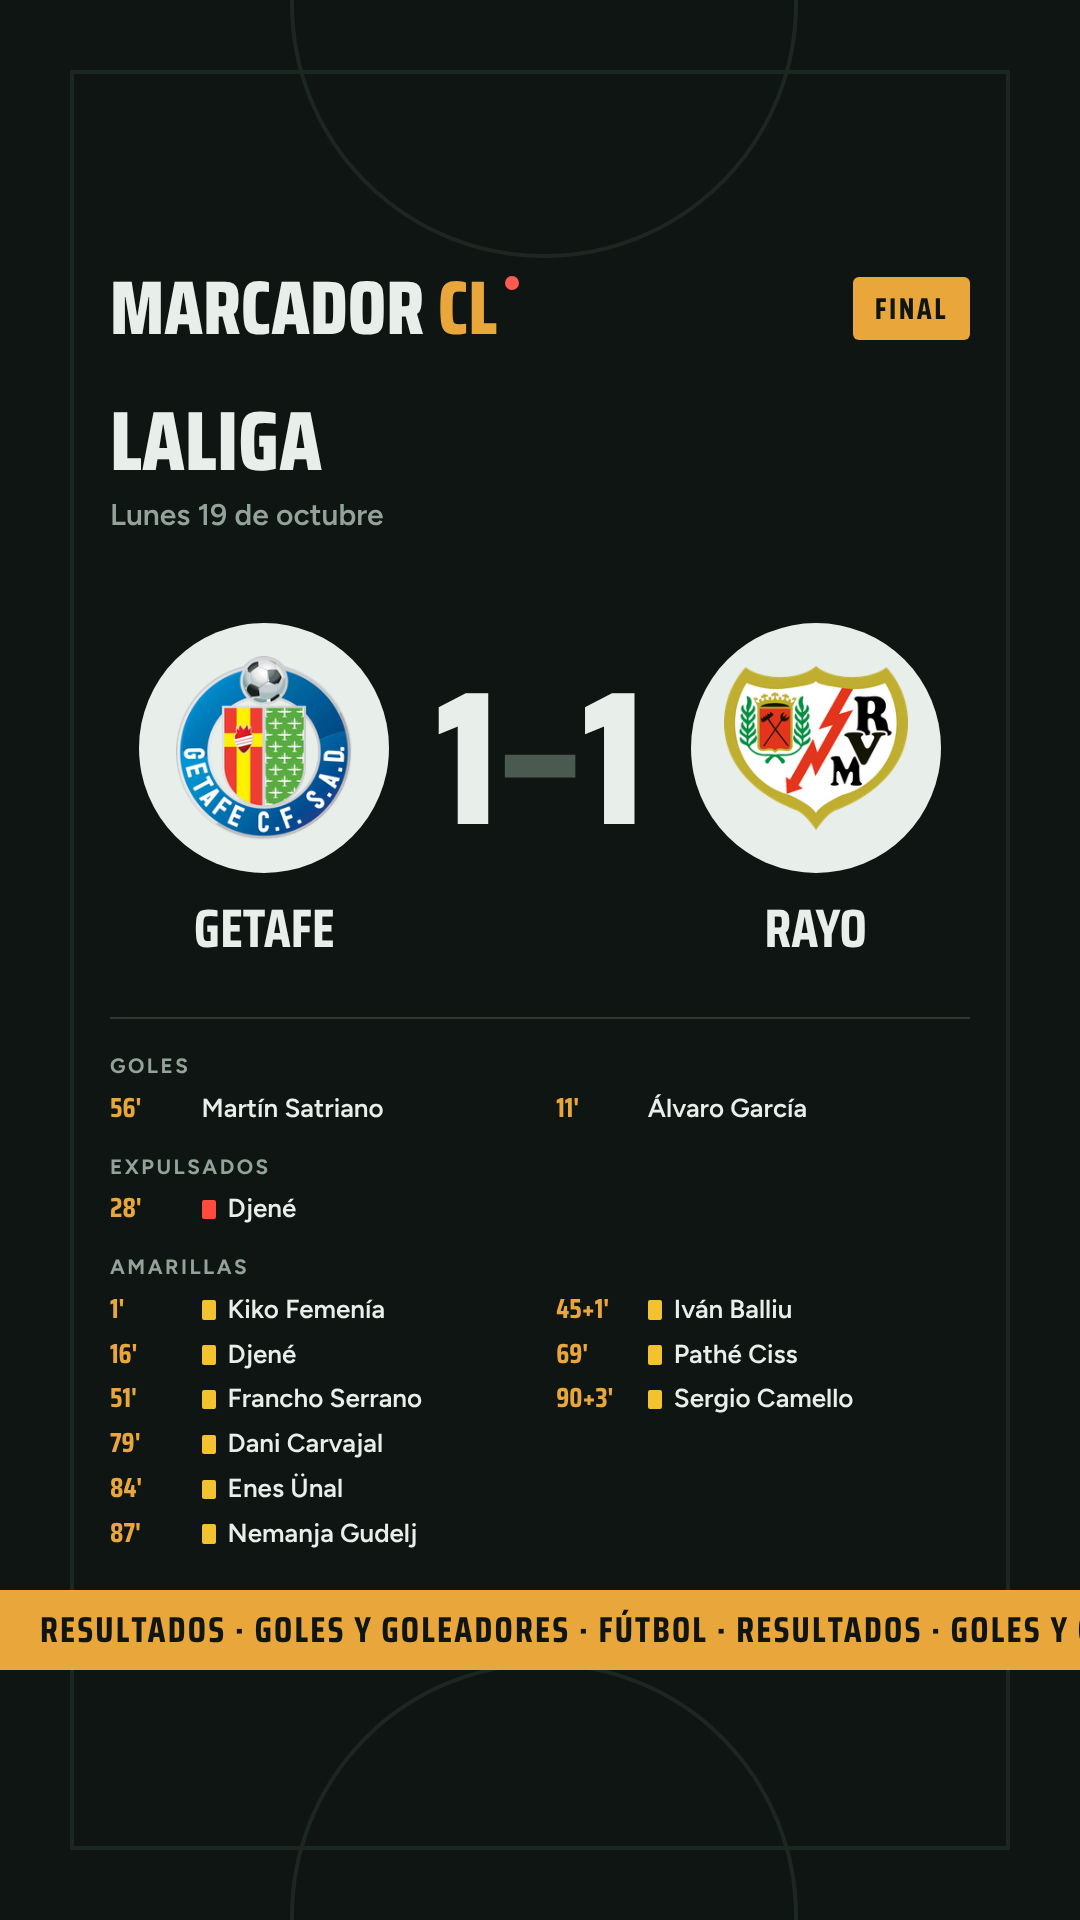
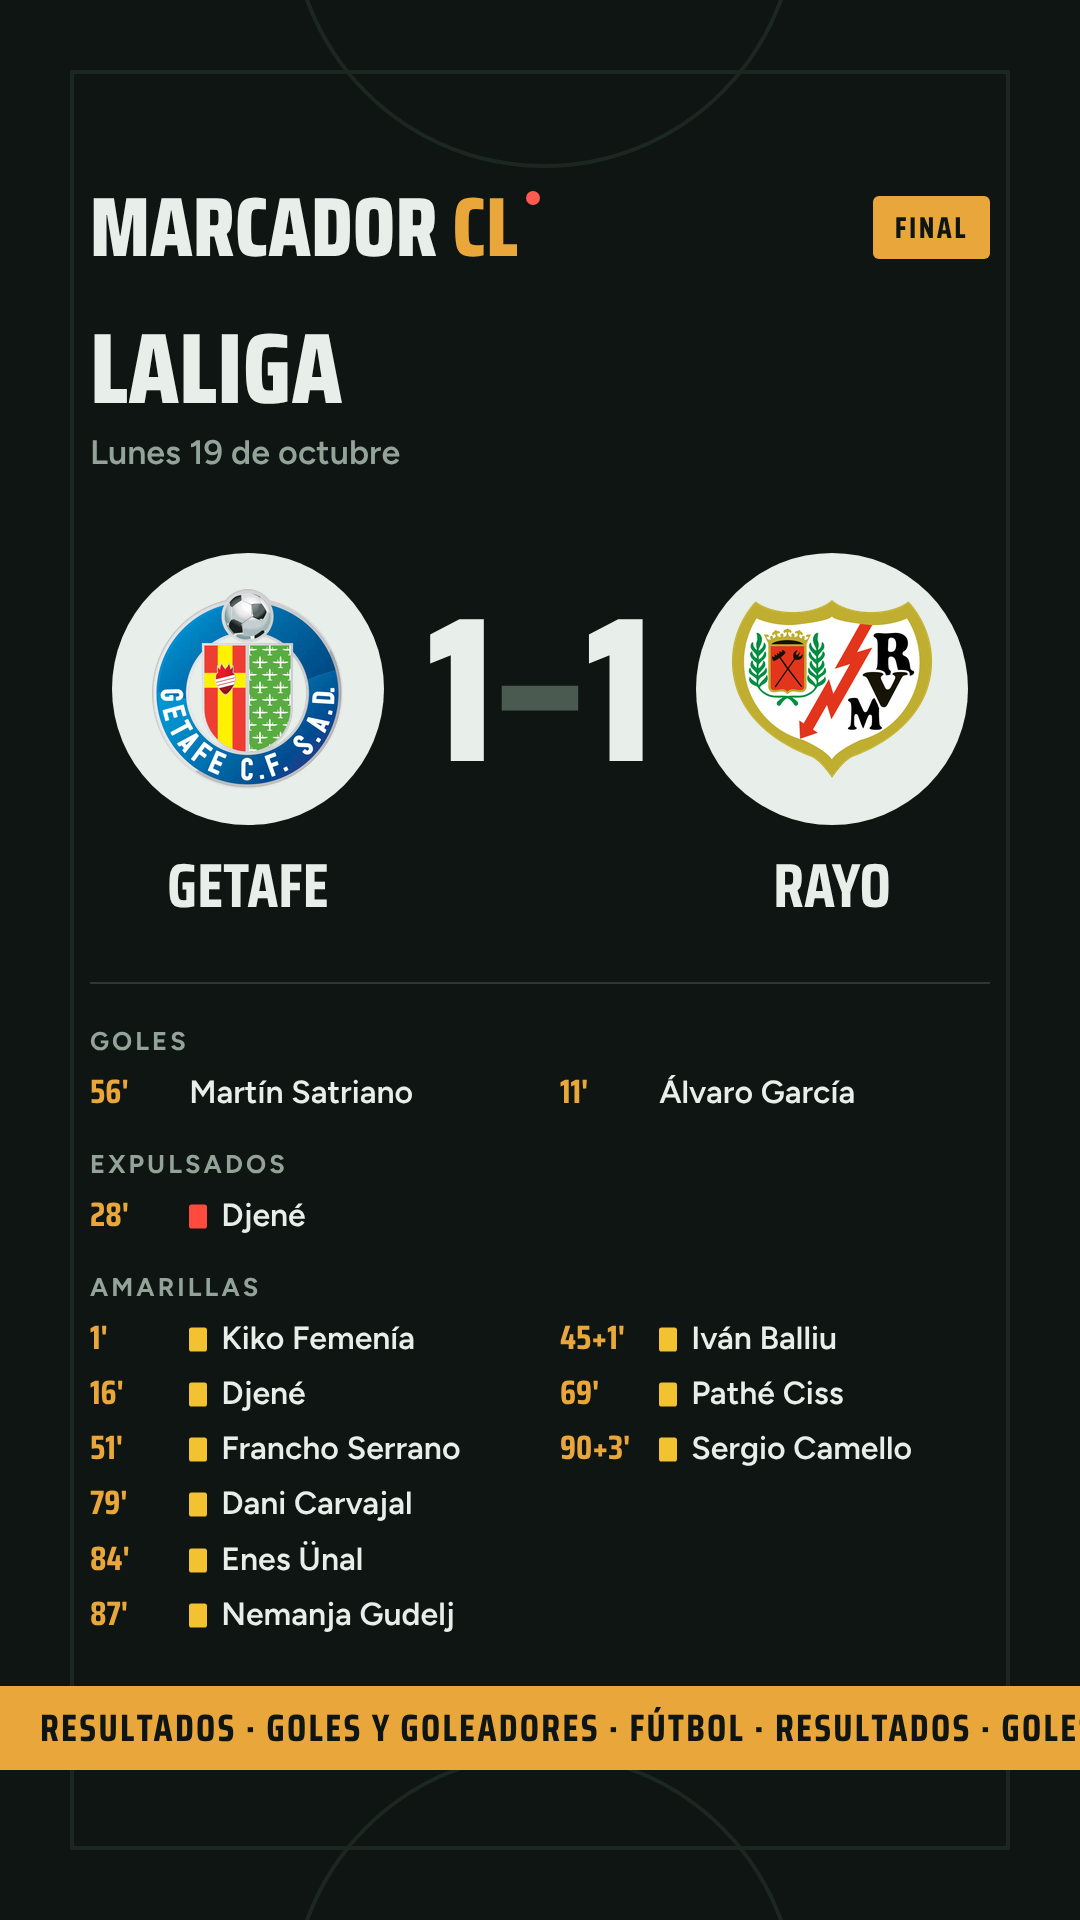
Historias: formato más alto, escudos y marcador más grandes
Claude-Session: https://claude.ai/code/session_017N4jqvzeFfavdK3br5k5f7

diff --git a/historias/render.py b/historias/render.py
@@ -109,11 +109,11 @@ def html_partido(p):
     def chip(nombre):
         uri = escudo(p["liga"], nombre)
         if uri:
-            inner = f'<img src="{uri}" style="width:184px;height:184px;object-fit:contain">'
+            inner = f'<img src="{uri}" style="width:200px;height:200px;object-fit:contain">'
         else:
             ini = "".join(w[0] for w in norm(nombre).split()[:2]).upper() or "?"
-            inner = f'<span style="font:800 110px Saira;color:#0f1512">{e(ini)}</span>'
-        return (f'<div style="width:250px;height:250px;border-radius:50%;background:#e8eee9;'
+            inner = f'<span style="font:800 130px Saira;color:#0f1512">{e(ini)}</span>'
+        return (f'<div style="width:272px;height:272px;border-radius:50%;background:#e8eee9;'
                 f'display:flex;align-items:center;justify-content:center">{inner}</div>')
 
     # Detalle: goles, anulados por VAR, rojas y amarillas. Todo en em para poder achicarlo
@@ -127,8 +127,8 @@ def html_partido(p):
     def linea(minuto, texto, icono="", tachado=False):
         t = f'<span style="text-decoration:line-through;text-decoration-thickness:.07em;color:#93a399">{texto}</span>' if tachado else f"<span>{texto}</span>"
         return (f'<div style="display:flex;gap:.45em;align-items:baseline">'
-                f'<span style="font-family:Saira;font-weight:700;font-size:1.06em;color:#e9a63b;min-width:2.9em">{e(minuto)}</span>'
-                f'{icono}{t}</div>')
+                f'<span style="font-family:Saira;font-weight:700;font-size:1.06em;color:#e9a63b;min-width:2.5em">{e(minuto)}</span>'
+                f'{icono}<span style="white-space:nowrap">{t}</span></div>')
 
     def seccion(titulo, items, fn):
         if not items:
@@ -162,9 +162,9 @@ def html_partido(p):
     goles = ""
     if cuerpo:
         goles = f'''
-  <div id="det" style="margin-top:60px;border-top:2px solid #2c3830;padding-top:.2em;font:600 32px Figtree">{cuerpo}</div>'''
+  <div id="det" style="margin-top:64px;border-top:2px solid #2c3830;padding-top:.2em;font:600 36px Figtree">{cuerpo}</div>'''
     fase = f' · {e(p["fase"])}' if p.get("fase") else ""
-    tam = 46 if max(len(p["local"]), len(p["visita"])) > 14 else 54
+    tam = 52 if max(len(p["local"]), len(p["visita"])) > 14 else 62
     return f'''<!doctype html><html><head><meta charset="utf-8"><style>
 @font-face{{font-family:Saira;src:url("{font("SairaCondensed-ExtraBold.ttf")}");font-weight:800}}
 @font-face{{font-family:Saira;src:url("{font("SairaCondensed-Bold.ttf")}");font-weight:700}}
@@ -173,22 +173,22 @@ html,body{{margin:0;background:#0f1512}}
 </style></head><body>
 <div style="width:1080px;height:1920px;position:relative;overflow:hidden;background:#0f1512;color:#e8eee9;font-family:Figtree">
   <div style="position:absolute;left:70px;top:70px;right:70px;bottom:70px;border:4px solid #1d2722"></div>
-  <div style="position:absolute;left:290px;top:-250px;width:500px;height:500px;border:4px solid #1d2722;border-radius:50%"></div>
-  <div style="position:absolute;left:290px;bottom:-250px;width:500px;height:500px;border:4px solid #1d2722;border-radius:50%"></div>
+  <div style="position:absolute;left:290px;top:-340px;width:500px;height:500px;border:4px solid #1d2722;border-radius:50%"></div>
+  <div style="position:absolute;left:290px;bottom:-340px;width:500px;height:500px;border:4px solid #1d2722;border-radius:50%"></div>
 
-  <div style="position:absolute;left:110px;right:110px;top:270px">
+  <div style="position:absolute;left:90px;right:90px;top:185px">
     <div style="display:flex;justify-content:space-between;align-items:center">
-      <div style="font:800 76px/1 Saira;text-transform:uppercase;position:relative">Marcador <span style="color:#e9a63b">CL</span>
+      <div style="font:800 84px/1 Saira;text-transform:uppercase;position:relative">Marcador <span style="color:#e9a63b">CL</span>
         <span style="position:absolute;right:-22px;top:6px;width:14px;height:14px;border-radius:50%;background:#ff5a4f"></span></div>
       <div style="font:700 30px Saira;letter-spacing:.08em;text-transform:uppercase;color:#0f1512;background:#e9a63b;padding:8px 22px;border-radius:6px">Final</div>
     </div>
-    <div style="margin-top:56px;font:800 84px/0.95 Saira;text-transform:uppercase">{e(liga)}</div>
-    <div style="margin-top:14px;font:600 30px Figtree;color:#93a399">{e(fecha_txt(p["fecha"]))}{fase}</div>
+    <div style="margin-top:52px;font:800 100px/0.95 Saira;text-transform:uppercase">{e(liga)}</div>
+    <div style="margin-top:16px;font:600 34px Figtree;color:#93a399">{e(fecha_txt(p["fecha"]))}{fase}</div>
 
-    <div style="margin-top:90px;display:grid;grid-template-columns:1fr auto 1fr;align-items:start">
+    <div style="margin-top:80px;display:grid;grid-template-columns:1fr auto 1fr;align-items:start">
       <div style="display:flex;flex-direction:column;align-items:center;gap:28px">{chip(p["local"])}
         <div style="font:700 {tam}px/1.05 Saira;text-transform:uppercase;text-align:center;color:{cl}">{e(corto(p["local"]))}</div></div>
-      <div style="font:800 190px/270px Saira;font-variant-numeric:tabular-nums;white-space:nowrap;padding:0 18px">
+      <div style="font:800 206px/272px Saira;font-variant-numeric:tabular-nums;white-space:nowrap;padding:0 22px">
         <span style="color:{cl}">{gl}</span><span style="color:#4a5a50">–</span><span style="color:{cv}">{gv}</span></div>
       <div style="display:flex;flex-direction:column;align-items:center;gap:28px">{chip(p["visita"])}
         <div style="font:700 {tam}px/1.05 Saira;text-transform:uppercase;text-align:center;color:{cv}">{e(corto(p["visita"]))}</div></div>
@@ -196,11 +196,11 @@ html,body{{margin:0;background:#0f1512}}
     {goles}
   </div>
 
-  <div style="position:absolute;left:0;right:0;bottom:250px;height:80px;background:#e9a63b;color:#0f1512;font:700 36px/80px Saira;letter-spacing:.06em;text-transform:uppercase;white-space:nowrap;overflow:hidden;padding-left:40px">Resultados · Goles y goleadores · Fútbol · Resultados · Goles y goleadores · Fútbol · Resultados ·</div>
+  <div style="position:absolute;left:0;right:0;bottom:150px;height:84px;background:#e9a63b;color:#0f1512;font:700 38px/84px Saira;letter-spacing:.06em;text-transform:uppercase;white-space:nowrap;overflow:hidden;padding-left:40px">Resultados · Goles y goleadores · Fútbol · Resultados · Goles y goleadores · Fútbol · Resultados ·</div>
 </div>
 <script>
-window.fit=function(){{var d=document.getElementById("det");if(!d)return;var fs=32;d.style.fontSize=fs+"px";
-while(d.getBoundingClientRect().bottom>1555&&fs>18){{fs-=1;d.style.fontSize=fs+"px";}}}};
+window.fit=function(){{var d=document.getElementById("det");if(!d)return;var fs=38;d.style.fontSize=fs+"px";
+while(d.getBoundingClientRect().bottom>1650&&fs>20){{fs-=1;d.style.fontSize=fs+"px";}}}};
 </script></body></html>'''
 
 
